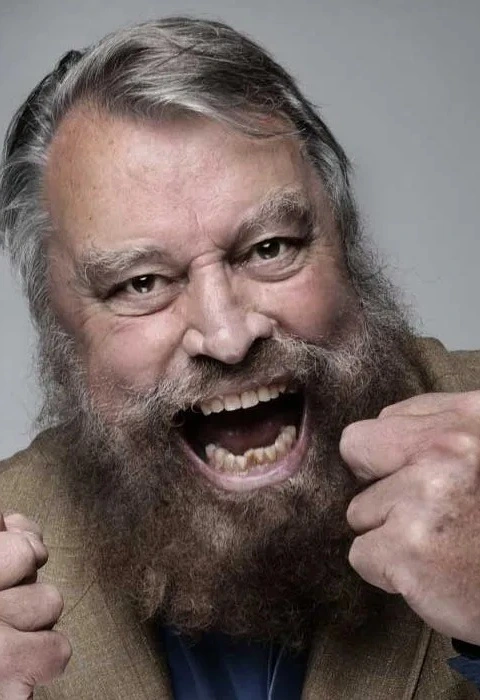
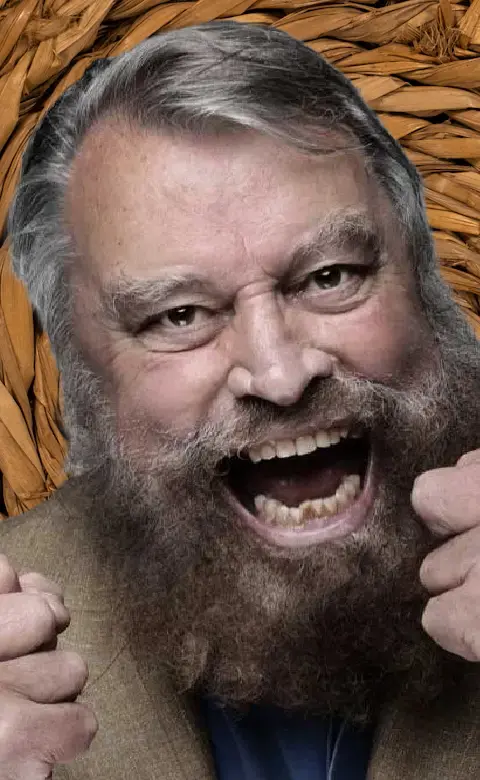
chore: some more styling and updated background images

diff --git a/client/src/styles.css b/client/src/styles.css
@@ -12,11 +12,6 @@ body {
   background-size: cover;
 }
 
-body img {
-  height: 100%;
-  width: auto;
-}
-
 header {
   grid-column-start: 2;
   grid-column-end: 4;
@@ -26,7 +21,14 @@ header {
   text-align: center;
   font-size: 40px;
   color: white;
-  background-color: rgba(22, 124, 165, 0.76);
+  background-image: linear-gradient(
+    to top,
+    rgba(0, 0, 0, 0.6),
+    rgba(22, 124, 165, 0.76)
+  );
+  margin: 10px;
+  border-radius: 10px;
+  padding: 10px;
 }
 
 footer {
@@ -48,8 +50,9 @@ footer {
   text-align: center;
   font-size: 30px;
   color: white;
-  background-color: rgba(0, 0, 0, 0.3);
-  border-right: 2px solid rgba(22, 124, 165, 0.76);
+  background-color: rgba(0, 0, 0, 0.6);
+  margin: 15px;
+  border-radius: 10px;
 }
 
 #post-heading-container {
@@ -61,8 +64,9 @@ footer {
   text-align: center;
   font-size: 30px;
   color: white;
-  background-color: rgba(0, 0, 0, 0.3);
-  border-left: 2px solid rgba(22, 124, 165, 0.76);
+  background-color: rgba(0, 0, 0, 0.6);
+  margin: 15px;
+  border-radius: 10px;
 }
 
 #form-submit {
@@ -82,7 +86,11 @@ footer {
   margin: 5px;
   gap: 10px;
   align-items: center;
-  background-color: rgba(22, 124, 165, 0.76);
+  background-image: linear-gradient(
+    to left,
+    rgba(0, 0, 0, 0.6),
+    rgba(22, 124, 165, 0.76)
+  );
   border-radius: 10px;
   padding: 10px;
 }
@@ -106,7 +114,11 @@ div.comment {
   padding: 5px;
   color: white;
   font-size: 20px;
-  background-color: rgba(22, 124, 165, 0.76);
+  background-image: linear-gradient(
+    to right,
+    rgba(0, 0, 0, 0.6),
+    rgba(22, 124, 165, 0.76)
+  );
 }
 
 #hidden-thanks {
@@ -128,9 +140,10 @@ h2 {
   font-size: 15px;
   margin: 10px;
   text-align: center;
-  background-color: rgba(0, 0, 0, 0.3);
+  background-color: rgba(0, 0, 0, 0.6);
   padding: 5px;
   border-radius: 10px;
+  margin: 15px;
 }
 
 #submit-form-button {
